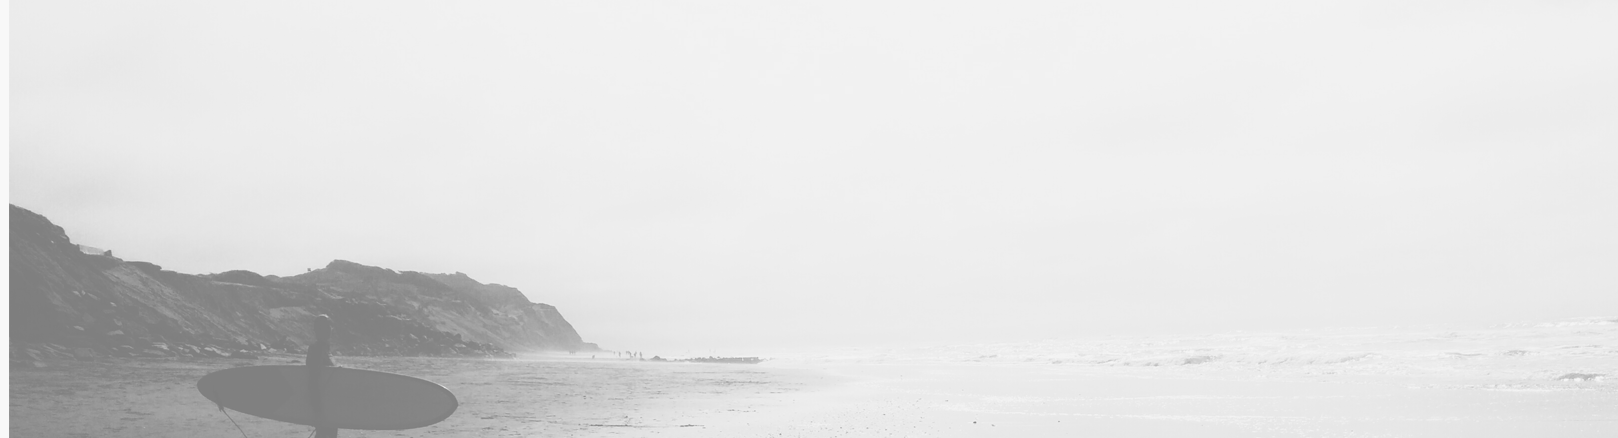
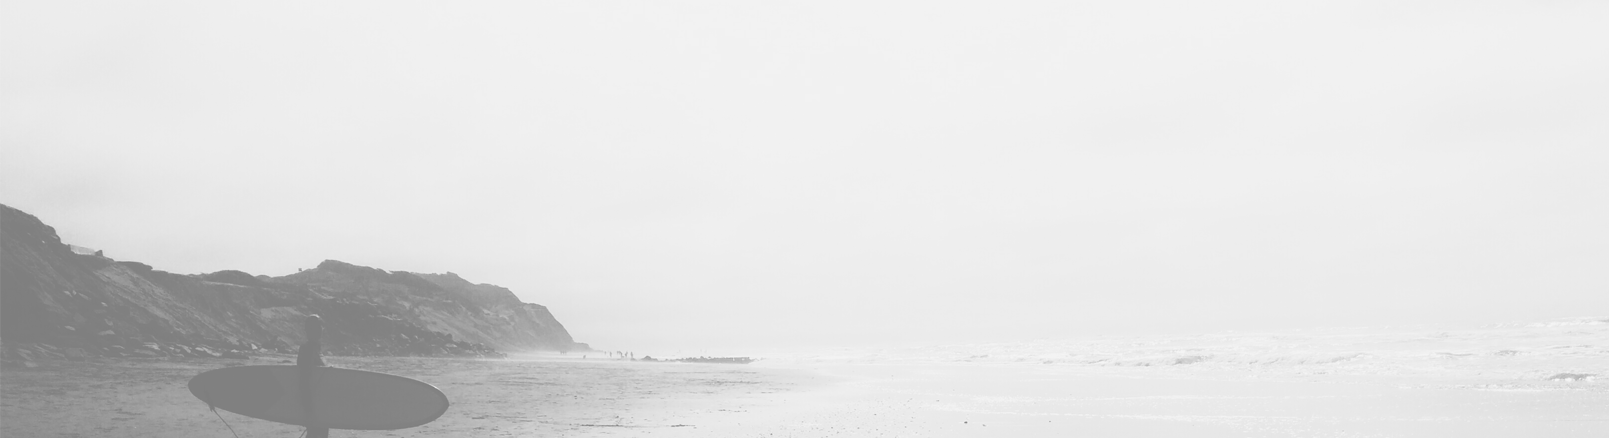
PRODUCT section with product photos added, section subscription changed alse

diff --git a/style.css b/style.css
@@ -6,16 +6,10 @@
 
 html,
 body {
-    /*max-width: 1600px;*/
     margin: 0 auto;
     min-height: 100%;
     font-family: 'Lato', sans-serif;
 }
-
-/*body {*/
-/*    outline: 1px solid green;*/
-/*}*/
-
 .clearfix:after {
     content: "";
     display: table;
@@ -96,12 +90,11 @@ img[alt="logo"] {
 
 .searchbar button {
     background-color: transparent;
-    margin-left: auto;
     border-radius: 0 3px 3px 0;
     border: 1px solid #e6e6e6;
     border-left: none;
     cursor: pointer;
-    width: 38.8px;
+    width: 39px;
     height: 39px
 }
 
@@ -142,7 +135,6 @@ nav a {
     margin-top: 18px;
     margin-bottom: 22px;
 }
-
 .slider-1 {
     min-height: 613px;
     background-color: #e8e8e8;
@@ -151,15 +143,40 @@ nav a {
     background-position: center;
     background-size: cover;
   }
-
+.featrd-items {
+    text-align: center;
+    margin-top: 95px;
+    margin-bottom: 10px;
+}
+.featrd-items + p {
+    color: #9f9f9f;
+    font-size: 14px;
+    font-weight: 400;
+    text-align: center;
+    letter-spacing: 0.35px;
+    margin-bottom: 55px;
+}
+.all-products {
+    display: block;
+    width: 212px;
+    margin: 0 auto;
+    text-align: center;
+    background-color: #f16d7f;
+    padding-top: 15px;
+    padding-bottom: 15px;
+    /* Style for "Browse All" */
+    text-decoration: none;
+    color: #ffffff;
+    font-size: 16px;
+    font-weight: 700;
+    letter-spacing: 0;
+}
 .tagline {
     padding-top: 224px;
 }
-
 .tag-content {
     position: relative;
 }
-
 .rectangle {
     position: absolute;
     top: 15px;
@@ -168,11 +185,9 @@ nav a {
     width: 12px;
     background-color: #f16d7f;
 }
-
 .tag-texts {
     padding-left: 24px;
 }
-
 .tag-txt-1 {
     display: block;
     color: #222222;
@@ -191,10 +206,9 @@ nav a {
 .tag-txt-2 span {
     color: #f16d7f;
 }
-
 .feature {
     display: flex;
-    margin-top: 97px;
+    margin-top: 113px;
     margin-bottom: 97px;
 }
 .feature-tag {
@@ -209,7 +223,6 @@ nav a {
     margin-top: 132px;
     margin-left: 38px;
 }
-
 .discount {
     display: block;
     color: #ffffff;
@@ -267,33 +280,23 @@ nav a {
 }
 
 .subscription {
-    /*outline: 1px solid red;*/
-    /*background-color: #f2f2f2;*/
-    position: relative;
-    overflow: hidden;
-    min-height: 438px;
+    background-image: url("img/beach-bright.png");
+    background-size: cover;
+    background-repeat: no-repeat;
+    background-position: center;
     margin-bottom: 100px;
-    display: flex;
-    align-items: center;
-}
-
-img[alt="beach"]{
-    margin: 0 auto;
-    opacity: 60%;
-    z-index: -1;
-    position: absolute;
-    top: 0;
-    bottom: 0;
-    left: 0;
-    right: 0;
 }
 
 .sub-wrapper {
     display: flex;
     align-items: center;
+    min-height: 438px;
+    outline: 1px solid blue;
 }
 .slider-2 {
-    width: 570px;
+    flex-basis: 570px;
+    height: 100%;
+    outline: 1px solid red;
 }
 .quote {
     display: flex;
@@ -325,10 +328,10 @@ img[alt="beach"]{
 }
 .sub-mail {
     display: flex;
+    flex: 1 1 auto;
     flex-direction: column;
     align-items: center;
-    text-align: center;
-    width: 570px;
+    outline: 1px solid green;
 }
 img[alt="face"] {
     padding-right: 28px;
@@ -372,12 +375,11 @@ img[alt="face"] {
     padding-left: 29px;
     padding-top: 10px;
     padding-bottom: 10px;
-    flex-basis: 334px;
+    flex-basis: 280px; /*  334px  */
 }
 .sub-form button {
     border: none;
     color: #ffffff;
-    margin-left: auto;
     border-radius: 0 23px 23px 0;
     background-color: #f16d7f;
     cursor: pointer;

diff --git a/index.html b/index.html
@@ -38,6 +38,11 @@
                 </div>
             </div>
         </section>
+        <section class="Product">
+            <h2 class="featrd-items">Fetured Items</h2>
+            <p>Shop for items based on what we featured in this week</p>
+            <a href="#" class="all-products">Browse All Product <i class="fa fa-long-arrow-right" aria-hidden="true"></i></a>
+        </section>
         <div class="container">
             <article class="feature">
                 <div class="feature-tag">
@@ -62,7 +67,6 @@
             </article>
         </div>
         <section class="subscription">
-            <img src="img/beach.png" alt="beach">
             <div class="container">
                 <div class="sub-wrapper">
                     <div class="slider-2">
@@ -80,7 +84,7 @@
                     </div>
                     <div class="sub-mail">
                         <p>Subscribe</p>
-                        <p>FOR OUR NEWLETTER AND PROMOTION</p>
+                        <p>FOR OUR NEWSLETTER AND PROMOTION</p>
                         <form action="#" class="sub-form">
                             <input type="text" placeholder="Enter Your Email"><button type="submit"> Submit </button>
                         </form>
